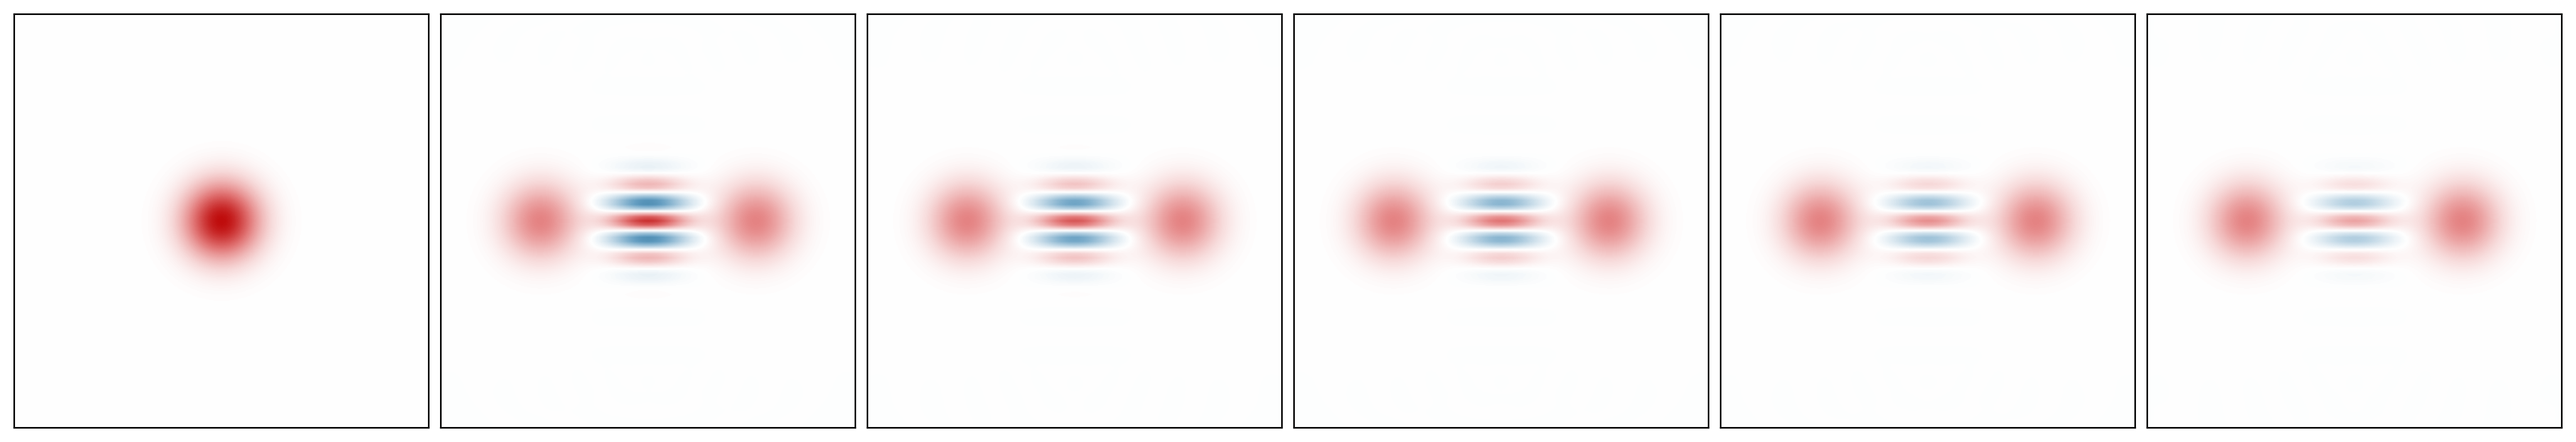
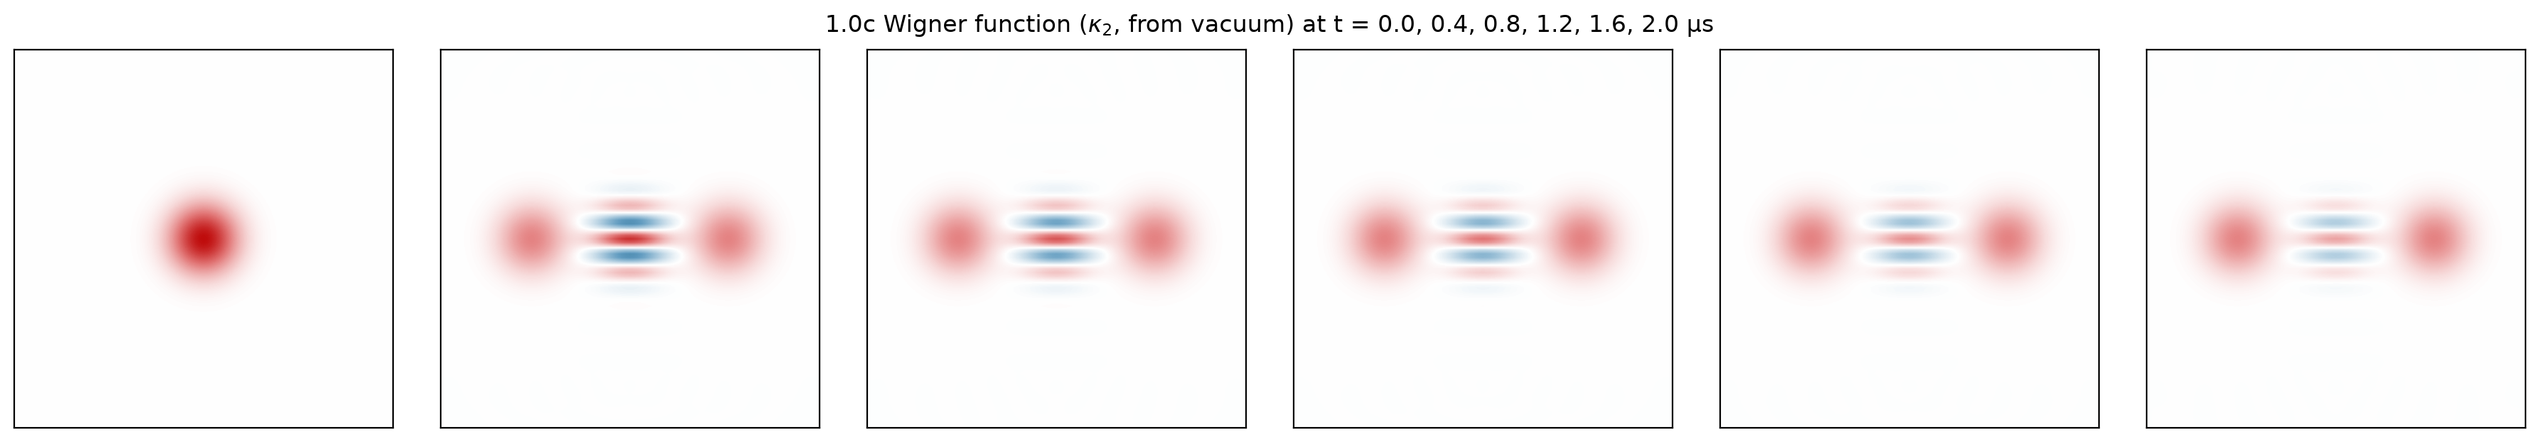
Act on the figure check and code review: correct claims 20 and B7, label figures, regenerate all figures on a second machine
- TECHNICAL.md: claim 20 steady-state bound 3e-5 at N_a = 20 (4e-6 from N_a = 24), B7 3.1e-5,
  doubled coherence labelled in claims 16/18, effective-model comparison in claim 11,
  inflation purity dip sourced, section 5 records the review
- settle_time returns inf when a curve never settles
- task_1_3a saves min_purity_inflation
- Wigner mosaics carry their times; grid cells all in percent; 1.1 monitor axis floored at 1e-9
- every task re-run on an Apple M2: reported quantities match the committed results to <= 1e-10

diff --git a/tasks/task_1_3a.py b/tasks/task_1_3a.py
@@ -52,15 +52,16 @@ def main(Na, Nb):
     ax[0].axhline(0.5, color="gray", lw=0.8, ls=":")
     ax[0].set(xlabel="t (µs)", ylim=(0, 1.05), title="1.3a the memory is an even cat")
     ax[0].legend(fontsize=8); ax[0].grid(alpha=0.3)
-    ax[1].plot(t, 2 * q["coherence"], lw=2, label="2|⟨α|ρ_a|−α⟩|  (1 = cat, 0 = mixture)")
-    ax[1].plot(t, q["re_a"], lw=2, label="Re⟨a⟩  (0 = no preferred well)")
+    ax[1].plot(t, 2 * q["coherence"], lw=2,
+               label="$2|\\langle\\alpha|\\rho_a|{-\\alpha}\\rangle|$  (1 = pure cat, 0 = mixture)")
+    ax[1].plot(t, q["re_a"], lw=2, label="Re$\\langle a\\rangle$  (0 = no preferred well)")
     ax[1].set(xlabel="t (µs)", title="superposition, not mixture")
     ax[1].legend(fontsize=8); ax[1].grid(alpha=0.3)
     save_fig(fig, "task_1_3a_cat_diagnostics")
 
     idx = [np.argmin(np.abs(t - s)) for s in (1.0, 2.0, 4.0, 6.0)]
     dq.plot.wigner_mosaic(rho_a[jnp.array(idx)], n=4, xmax=4)
-    plt.gcf().suptitle("fringes fade as kappa_a turns the cat into a mixture (t = 1, 2, 4, 6 µs)")
+    plt.gcf().suptitle("fringes fade as $\\kappa_a$ turns the cat into a mixture (t = 1, 2, 4, 6 µs)")
     save_fig(plt.gcf(), "task_1_3a_wigner_fading")
 
     i1 = int(np.argmin(np.abs(t - 1.0)))
@@ -69,6 +70,9 @@ def main(Na, Nb):
         "at_1us": {k: float(v[i1]) for k, v in q.items()},
         "at_6us": {k: float(v[-1]) for k, v in q.items()},
         "min_purity": float(q["purity"].min()), "t_min_purity_us": float(t[int(q["purity"].argmin())]),
+        # the dip while the memory is entangled with the filling buffer (TECHNICAL.md section 4)
+        "min_purity_inflation": float(q["purity"][t < T_FIT].min()),
+        "t_min_purity_inflation_us": float(t[t < T_FIT][int(q["purity"][t < T_FIT].argmin())]),
         "max_abs_re_a": float(np.abs(q["re_a"]).max()),
         "parity_decay_fit_per_us": gamma, "parity_decay_pred_per_us": gamma_pred,
         "fit_rel_error": gamma / gamma_pred - 1,

diff --git a/tasks/task_1_0.py b/tasks/task_1_0.py
@@ -37,7 +37,9 @@ def part_a():
            title=f"1.0a single-photon loss (max error {err:.1e})")
     ax.legend(); ax.grid(alpha=0.3)
     save_fig(fig, "task_1_0a_photon_number")
-    dq.plot.wigner_mosaic(res.states[::40], n=6, xmax=3.5)
+    idx = np.arange(0, len(t), 40)
+    dq.plot.wigner_mosaic(res.states[idx], n=len(idx), xmax=3.5)
+    plt.gcf().suptitle("1.0a Wigner function at t = " + ", ".join(f"{float(t[i]):.1f}" for i in idx) + " µs")
     save_fig(plt.gcf(), "task_1_0a_wigner")
     return {"max_abs_error_vs_analytic": err}
 
@@ -89,7 +91,10 @@ def part_c():
     ax[0].legend()
     save_fig(fig, "task_1_0c_kappa2_sweep")
     nominal = res.states[1]
-    dq.plot.wigner_mosaic(nominal[::40], n=6, xmax=4)
+    idx = np.arange(0, len(t), 80)
+    dq.plot.wigner_mosaic(nominal[idx], n=len(idx), xmax=4)
+    plt.gcf().suptitle("1.0c Wigner function ($\\kappa_2$, from vacuum) at t = "
+                       + ", ".join(f"{float(t[i]):.1f}" for i in idx) + " µs")
     save_fig(plt.gcf(), "task_1_0c_wigner")
     RES_DIR.mkdir(exist_ok=True)   # Task 1.1 overlays this reference curve
     np.save(RES_DIR / "task_1_0c_nominal.npy", np.stack([np.asarray(t), n[1]]))

diff --git a/tasks/task_1_1.py b/tasks/task_1_1.py
@@ -48,7 +48,9 @@ def main(Na, Nb):
     ax[1].semilogy(t, e[3], label=f"buffer top level ({Na}x{Nb})")
     ax[1].semilogy(t, e0[2], "--", label="memory top 2 (starter)")
     ax[1].semilogy(t, e0[3], "--", label="buffer top (starter)")
-    ax[1].set(xlabel="t (µs)", ylabel="population", ylim=(1e-12, 1), title="truncation monitors")
+    # after the transient the monitors sit at the solver noise (atol = 1e-10), up to ~1e-7
+    ax[1].set(xlabel="t (µs)", ylabel="population", ylim=(1e-9, 1),
+              title="truncation monitors (wiggles < 1e-6 after 1.5 µs: solver noise)")
     ax[1].legend(fontsize=8); ax[1].grid(alpha=0.3)
     save_fig(fig, "task_1_1_inflation")
 

diff --git a/src/analysis.py b/src/analysis.py
@@ -51,9 +51,9 @@ def fit_exp_decay(t, y):
 
 
 def settle_time(t, y, target, rel=0.01):
-    """First time after which y stays within rel of target."""
+    """First time after which y stays within rel of target (inf if it never does)."""
     t, y = np.asarray(t), np.asarray(y)
     outside = np.where(np.abs(y - target) > rel * abs(target))[0]
     if len(outside) == 0:
         return float(t[0])
-    return float(t[min(outside[-1] + 1, len(t) - 1)])
+    return float(t[outside[-1] + 1]) if outside[-1] + 1 < len(t) else float("inf")

diff --git a/tasks/task_1_2_grid.py b/tasks/task_1_2_grid.py
@@ -55,7 +55,7 @@ def merge():
             if (na[j], nb[i]) == (na[-1], nb[-1]):
                 txt = "ref"
             else:
-                txt = f"{100 * e:.2g}%" if e >= 1e-4 else f"{e:.0e}"
+                txt = f"{100 * e:.2g}%"
             axi.text(j, i, txt, ha="center", va="center", fontsize=6.5,
                      color="k" if e > 1e-3 else "w", fontweight="bold" if e < tol else "normal")
         for (a, b), label in [((32, 12), "used"), ((24, 6), "starter")]:

diff --git a/TECHNICAL.md b/TECHNICAL.md
@@ -25,16 +25,16 @@ This file is written for judges, physicists and AI reviewers. Every claim below 
 | 8 | 1.1 buffer transient | peak ⟨n_b⟩ = 1.99 at 0.13 µs | "of order a couple of photons" (prompt) | `task_1_1.json → peak_nb` | `tasks/task_1_1.py` |
 | 9 | 1.1 truncation monitors at 32×12 | max top-2 memory 1.4e-5, max top buffer 1.7e-4 | both ≪ 1e-3 at all times | `task_1_1.json → max_top2_a, max_top_b` | `tasks/task_1_1.py` |
 | 10 | Starter 24×6 underestimates the peak | 6.115 (−11.3%) | its buffer top level reaches 4.6% | `task_1_1.json → starter_peak_na, starter_max_top_b` | `tasks/task_1_1.py` |
-| 11 | 1.2 steady state vs semiclassics | 4.4026 vs 4.41 (−0.17%) | agreement to < 1%, so physical, not numerical | `task_1_2.json → summary.steady_vs_alpha2_rel` | `tasks/task_1_2.py` |
+| 11 | 1.2 steady state vs semiclassics | 4.4026 vs 4.41 (−0.17%) | agreement to < 1%, so physical, not numerical; the effective model gives 4.404 (−0.14%), so the offset is mostly the κ_a shift both models share | `task_1_2.json → summary.steady_vs_alpha2_rel`, `task_1_0.json → c.final_n[1]` | `tasks/task_1_2.py` |
 | 12 | 1.2 steady state is insensitive to truncation | converged (0.1%) at N_a = 16, N_b = 4 | buffer is empty in steady state | `task_1_2.json → summary.Na_needed_steady, Nb_needed_steady` | `tasks/task_1_2.py` |
 | 13 | 1.2 peak needs N_a ≥ 24, N_b ≥ 10 | to 0.5% of the largest run | memory reaches ~6.9 photons; buffer briefly holds ~2 | `task_1_2.json → summary.Na_needed_peak, Nb_needed_peak` | `tasks/task_1_2.py` |
 | 14 | 1.3a ⟨a⟩ = 0 at all times | max \|Re⟨a⟩\| = 0 | parity symmetry: no preferred well | `task_1_3a.json → max_abs_re_a` | `tasks/task_1_3a.py` |
 | 15 | 1.3a parity decays at 2κ_a n̄ | fit 0.5135 /µs vs 0.5146 predicted (−0.2%) | each lost photon flips parity | `task_1_3a.json → parity_decay_fit_per_us, parity_decay_pred_per_us` | `tasks/task_1_3a.py` |
-| 16 | 1.3a it is a superposition, not a mixture | at 1 µs: coherence 0.63 = parity 0.63; purity 0.69 | a mixture has coherence 0, purity 0.5 | `task_1_3a.json → at_1us` | `tasks/task_1_3a.py` |
+| 16 | 1.3a it is a superposition, not a mixture | at 1 µs: coherence 0.63 = parity 0.63; purity 0.69 | a mixture has coherence 0, purity 0.5 | `task_1_3a.json → at_1us` (coherence here = 2 × `coherence`) | `tasks/task_1_3a.py` |
 | 17 | 1.3a cat lifetime | 1.95 µs | 1/(2κ_a α²) = 1.94 µs | `task_1_3a.json → cat_lifetime_us` | `tasks/task_1_3a.py` |
-| 18 | 1.3a becomes a mixture by 6 µs | parity 0.05, coherence 0.05, purity 0.501 | expected after ~3 lifetimes | `task_1_3a.json → at_6us` | `tasks/task_1_3a.py` |
+| 18 | 1.3a becomes a mixture by 6 µs | parity 0.05, coherence 0.05, purity 0.501 | expected after ~3 lifetimes | `task_1_3a.json → at_6us` (coherence = 2 × `coherence`) | `tasks/task_1_3a.py` |
 | 19 | 1.3a parity-decay fit is robust | 0.5135 / 0.5134 / 0.5132 / 0.5129 for fit windows starting at 0.8 / 1.0 / 2.0 / 3.0 µs; nonlinear fit on y gives 0.5139 | spread ≤ 0.12%, well below the 0.2% gap to the prediction | `task_1_3a.json → gamma_vs_fit_start_us, gamma_nonlinear_fit_per_us` | `tasks/task_1_3a.py` |
-| 20 | Full (N_a, N_b) grid: the two truncations don't interact, and 32×12 is converged | peak error vs 48×18: 24×10 → 0.41% (cheapest within 0.5%), 32×12 → 0.035%; steady state within 1e-5 for every N_a ≥ 20 at any N_b | rows (fixed N_b) and columns (fixed N_a) each saturate at their own error floor, so the one-at-a-time sweep was enough | `task_1_2_grid.json → summary, points` | `tasks/task_1_2_grid.py` on Vultr |
+| 20 | Full (N_a, N_b) grid: the two truncations don't interact, and 32×12 is converged | peak error vs 48×18: 24×10 → 0.41% (cheapest within 0.5%), 32×12 → 0.035%; steady state within 3e-5 for every N_a ≥ 20 and 4e-6 for every N_a ≥ 24, at any N_b | rows (fixed N_b) and columns (fixed N_a) each saturate at their own error floor, so the one-at-a-time sweep was enough | `task_1_2_grid.json → summary, points` | `tasks/task_1_2_grid.py` on Vultr |
 
 ## 3. Convergence study (Task 1.2)
 
@@ -62,11 +62,11 @@ We varied each truncation separately (N_a ∈ {16, 20, 24, 28, 32, 40} at N_b = 
 | 12 | 7.6% | 1.5% | 0.20% | 0.046% | **0.035%** | 0.035% | 0.035% |
 | 14 | 7.7% | 1.5% | 0.20% | 0.021% | 0.0039% | 0.0028% | 0.0028% |
 
-Each row flattens at an error set by N_b alone, and each column at an error set by N_a alone. Where both are limiting, the errors roughly add (24×10: 0.41% against 0.33% + 0.20%). So the truncations act independently, and the one-at-a-time sweep above reached the right answer. Our production choice of 32×12 is 0.035% from the reference, ten times inside the 0.5% tolerance. The steady state is converged to 1e-5 for every N_a ≥ 20, whatever N_b is, because the buffer is empty in steady state.
+Each row flattens at an error set by N_b alone, and each column at an error set by N_a alone. Where both are limiting, the errors roughly add (24×10: 0.41% against 0.33% + 0.20%). So the truncations act independently, and the one-at-a-time sweep above reached the right answer. Our production choice of 32×12 is 0.035% from the reference, ten times inside the 0.5% tolerance. The steady state is converged to 3e-5 for every N_a ≥ 20 and to 4e-6 for every N_a ≥ 24, whatever N_b is, because the buffer is empty in steady state.
 
 ## 4. Task 1.3a reasoning
 
-Memory parity P = e^{iπa†a} commutes with a²b†, a†²b, the buffer drive, and the buffer loss. Only √κ_a a changes it. The initial vacuum has P = +1, so without κ_a the memory would stay in the even-parity subspace. In the code space that subspace contains just |C₊⟩. In the code space, the coherence 2|⟨α|ρ_a|−α⟩| equals ⟨P⟩, and the data show this (0.626 vs 0.629 at 1 µs). So the state is the even cat diluted only by parity flips from photon loss, with no extra dephasing. The purity dips to ~0.6 at 0.3 µs while the memory is entangled with the filling buffer, then follows the parity-flip mixture. Fidelity with |C₊⟩ peaks at 0.85 around 0.6 µs. It's limited by the parity already lost during inflation (~0.3 µs at an elevated n̄) and by the residual overshoot deformation.
+Memory parity P = e^{iπa†a} commutes with a²b†, a†²b, the buffer drive, and the buffer loss. Only √κ_a a changes it. The initial vacuum has P = +1, so without κ_a the memory would stay in the even-parity subspace. In the code space that subspace contains just |C₊⟩. In the code space, the coherence 2|⟨α|ρ_a|−α⟩| equals ⟨P⟩, and the data show this (0.626 vs 0.629 at 1 µs). So the state is the even cat diluted only by parity flips from photon loss, with no extra dephasing. The purity dips to 0.59 at 0.3 µs (`task_1_3a.json → min_purity_inflation`) while the memory is entangled with the filling buffer, then follows the parity-flip mixture. Fidelity with |C₊⟩ peaks at 0.85 around 0.6 µs. It's limited by the parity already lost during inflation (~0.3 µs at an elevated n̄) and by the residual overshoot deformation.
 
 ## 4b. Task 1.3(b, c): preparing |+α⟩
 
@@ -82,7 +82,7 @@ All runs: two-mode model, N_a = 32, N_b = 12, `Tsit5(rtol=1e-8, atol=1e-10)`, re
 | B4 | Stabilization forgives a phase error in the pulse | F = 0.9995 / 0.9951 / 0.973 at 15° / 30° / 45° (\|β\| = α); the pulse alone gives 0.74 / 0.31 / 0.08 | pulse alone needs \|β − α\|² ≤ 0.01, i.e. ≤ 2.7° for F ≥ 0.99 | `A2_phase[*]`, `phase_window_F099_stabilized_deg` = 30 |
 | B5 | Method B (drive i·ε₁(a† − a) for the first 100 ns, from vacuum) also works if strong | ε₁ = 5 / 10 / 20 rad/µs: F = 0.78 / 0.94 / 0.997 | ε₁T is the bare displacement (0.5 / 1 / 2); the drive competes with the inflation, so it is weaker than A at equal β | `B_drive[*]` |
 | B6 | The other quadrature ε(a + a†) picks no well | Re⟨a⟩ = 0, F = 0.500 | ε(a + a†) generates D(−iεt), a push along the imaginary axis, at right angles to the wells, so the mirror symmetry Re⟨a⟩ → −Re⟨a⟩ survives (it is the 90° end of B4). Once the cat exists, the same drive is the Zeno Z gate | `control_wrong_quadrature` |
-| B7 | Converged | every F above agrees between 28×10 and 32×12 to ≤ 3e-4; max memory top-2 population ≤ 3e-5, buffer top level ≤ 5e-4 | Task 1.2 rule | run with `--na 28 --nb 10` |
+| B7 | Converged | every F above agrees between 28×10 and 32×12 to ≤ 3e-4; max memory top-2 population ≤ 3.1e-5, buffer top level ≤ 5e-4 | Task 1.2 rule | run with `--na 28 --nb 10` |
 
 **Note on the one-mode research estimate.** An earlier one-mode (effective model) calculation gave F ≥ 0.99 up to a ~45° phase error. The two-mode model is less forgiving: F ≥ 0.99 holds at 30° but not at 45° (0.973). We quote the two-mode number. A finer phase grid at 40×14 is queued for the cloud.
 
@@ -107,6 +107,7 @@ All runs: two-mode model, N_a = 32, N_b = 12, `Tsit5(rtol=1e-8, atol=1e-10)`, re
   | Parity rate 2κ_a⟨nP⟩ ≈ 2κ_a⟨n⟩⟨P⟩ | d⟨P⟩/dt = −2κ_a⟨nP⟩ exactly. The local rate −d ln P/dt drifts from 0.5141 (2 µs) to 0.5112 (6 µs) while 2κ_a⟨n⟩ stays 0.5146 | Explains claim 15's −0.2% residual: it is the ⟨nP⟩ ≈ ⟨n⟩⟨P⟩ step, which worsens as P → 0, not fit noise |
   | Coherence normalization: 2\|⟨α\|ρ\|−α⟩\| = 1 − O(e^(−2α²)) for \|C₊⟩ | ≈ 1 − 1.5e-4, agrees with our derivation | No change |
   | Scope: 1.3(b)/(c) not implemented | True at review time | Done afterwards: Task 1.3b |
+- **Figure check and second code review** ([`reviews/claude-figures-20261024-1900.md`](reviews/claude-figures-20261024-1900.md), [`reviews/claude-code-20261024-1900.md`](reviews/claude-code-20261024-1900.md)). The planned Gemini multimodal check (`ai_review.py --figures`) stopped on the free-tier daily quota, so Claude read all 12 figures as images against this table and the results JSON, and re-read `src/` and `tasks/` against the same checklist. No physics or convention errors. It found one wrong bound (claim 20 said 1e-5 at N_a = 20; the grid has 2.9e-5) and one rounded-down bound (B7), both corrected above; we also labelled the doubled coherence in claims 16 and 18, saved the inflation purity dip, made `settle_time` report "never" instead of the run length, and fixed figure labels (Wigner times, one unit in the grid, the solver-noise floor in the 1.1 monitors). Every task was then re-run on a second machine (Apple M2 laptop, ~10 min for 1.0–1.3b): every reported quantity reproduced to ≤ 1e-10 relative, and the solver-noise-level ones (truncation monitors, the 1e-11 error in claim 1) to ≤ 2e-6.
 - What we caught ourselves that an AI would easily miss: the default ODE tolerance produced ~1e-4 noise in the truncation monitors, which would have hidden a real truncation problem. We tightened the tolerance and confirmed the results didn't change beyond it.
 
 ## 6. File map

diff --git a/reviews/claude-figures-20261024-1900.md b/reviews/claude-figures-20261024-1900.md
@@ -17,7 +17,7 @@ everything else supported. 7 presentation issues, none affecting a number.
 | `task_1_0b_two_photon_loss.png` | 3 | supported | bars at n = 0 and 1 both ≈ 0.50, nothing visible at n ≥ 2 |
 | `task_1_0c_kappa2_sweep.png` | 4 | supported | all three curves end at the α² line; κ₂/4 (blue) sits visibly just below it (4.387) |
 | `task_1_0c_kappa2_sweep.png` | 5 | supported | right panel: the three curves coincide against κ₂t; reaching 90% (≈ 3.95) at κ₂t ≈ 0.86–0.90 |
-| `task_1_0c_wigner.png` | — | presentation | no times on the panels (they are t = 0, 0.2, …, 1.0 µs); fringes visibly fade across panels 2–6 within 1 µs, which a reader may not expect from an "effective model" figure without a caption |
+| `task_1_0c_wigner.png` | — | presentation | no times on the panels (they are t = 0, 0.4, …, 2.0 µs: `wigner_mosaic(n=6)` picks 6 of the 11 saved states); fringes visibly fade across panels 2–6, which a reader may not expect from an "effective model" figure without a caption |
 | `task_1_1_inflation.png` | 6 | supported | blue peak ≈ 6.9 at ≈ 0.23 µs, against the α² line at 4.41 |
 | `task_1_1_inflation.png` | 7 | supported | last excursions outside ±1% are at ≈ 0.87 µs (≈ 4.5) and ≈ 1.0 µs (≈ 4.36); flat at 4.40 after |
 | `task_1_1_inflation.png` | 8 | supported | green buffer peak ≈ 2.0 at ≈ 0.13 µs |
@@ -54,3 +54,11 @@ everything else supported. 7 presentation issues, none affecting a number.
 | B7 "max memory top-2 population ≤ 3e-5" | minor overstatement | `A2_phase[75°].max_top2_a` = 3.11e-5. Write "≤ 3.1e-5" (or "≲ 3e-5") |
 | 16, 18 source key | label mismatch | `task_1_3a.json → at_1us.coherence` is 0.313, i.e. \|⟨α\|ρ\|−α⟩\| without the factor 2; the claims quote 2× (0.63, 0.05). Say "2 × coherence" in the source column so a judge finds the number |
 | §4 "purity dips to ~0.6 at 0.3 µs" | no JSON source | `min_purity` / `t_min_purity_us` give the global minimum (0.501 at 6 µs), not the early dip. Visible in the figure, but not backed by a saved number |
+
+## Triage (same evening)
+
+Acted on all of the above: TECHNICAL.md claims 11, 16, 18, 20, B7 and §4 corrected or
+sourced; Wigner panels now carry their times; the grid prints every cell in percent; the
+1.1 monitor axis stops at 1e-9 and its title names the solver-noise wiggles; `ρ_a`, `κ_a`
+render as math. The B5 figure still plots Re⟨a⟩/α (F stays in the table). All figures were
+regenerated locally (Apple M2); every reported quantity matched the committed results to ≤ 1e-10 relative, the truncation monitors to ≤ 2e-6.

diff --git a/reviews/claude-code-20261024-1900.md b/reviews/claude-code-20261024-1900.md
@@ -41,3 +41,9 @@ cross-checked every claim's number against `results/*.json`. No code was run. Tr
 
 No issues found with signs, operator ordering, batching (`one_mode` with array κ₂, `dq.pwc`
 with batched ε₁), the partial trace, or the `converged_at` logic in `task_1_2.py`.
+
+## Triage (same evening)
+
+Fixed 1–5 and 8 (TECHNICAL.md, `src/analysis.py: settle_time`, `tasks/task_1_3a.py:
+min_purity_inflation`, `tasks/task_1_1.py` axis). 7 added to claim 11. 6 left as is
+(already stated in claim 5).
